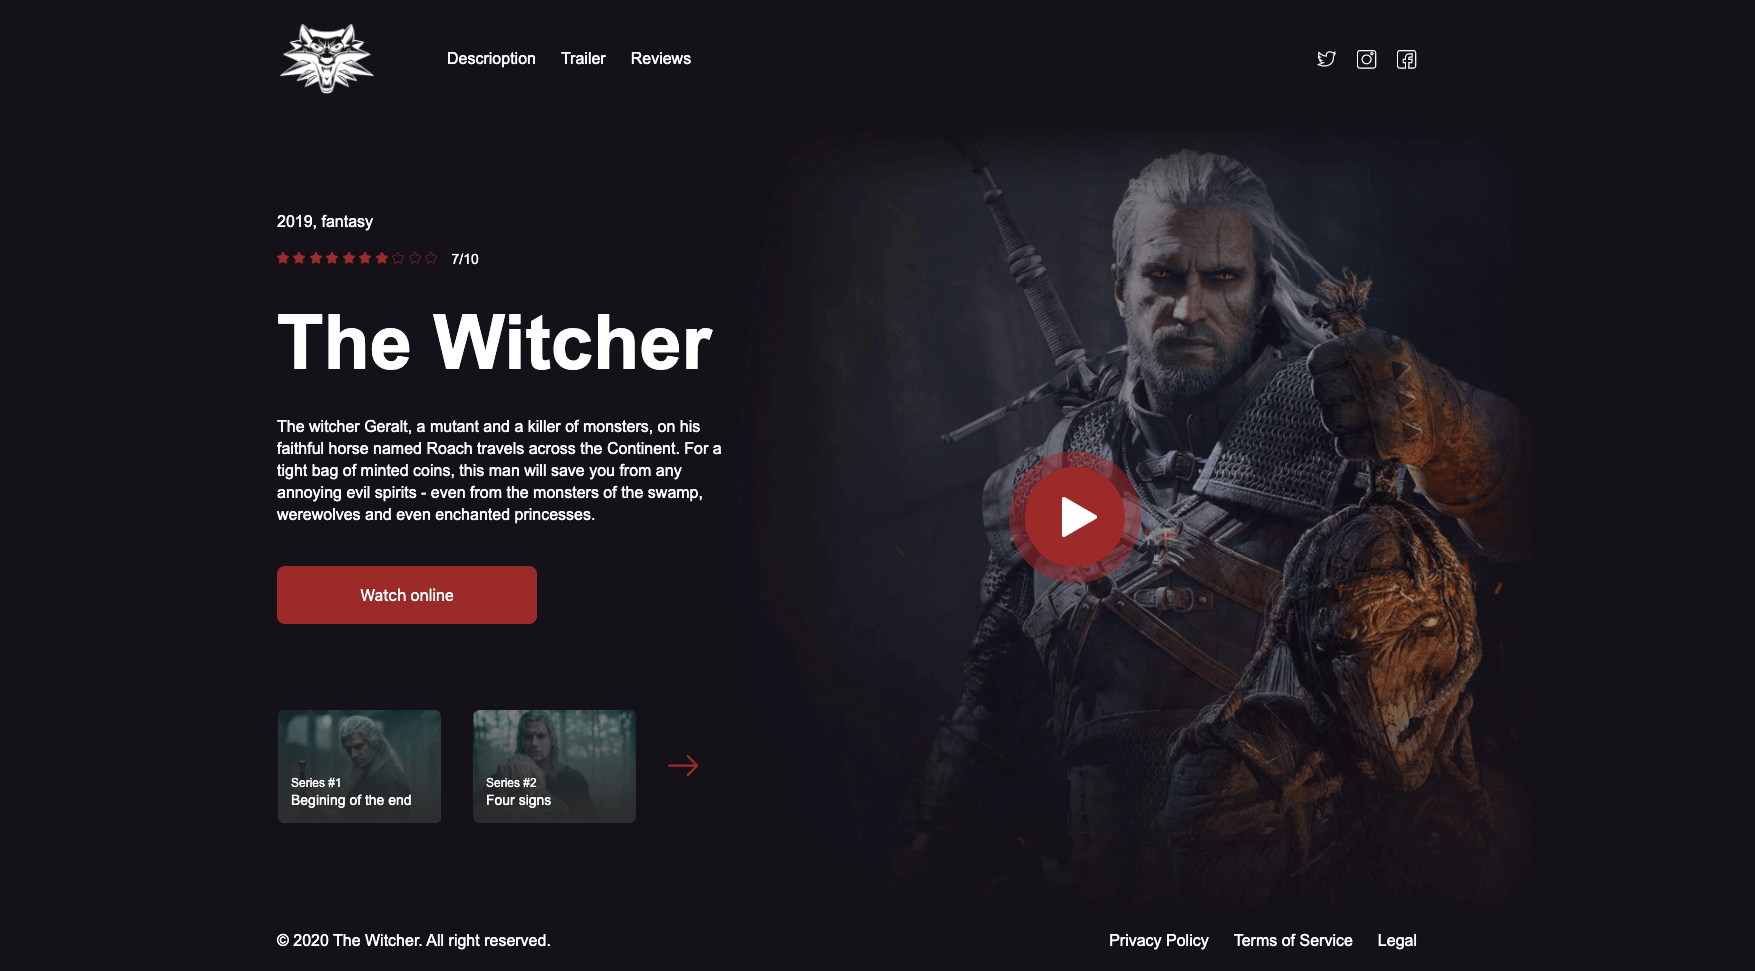
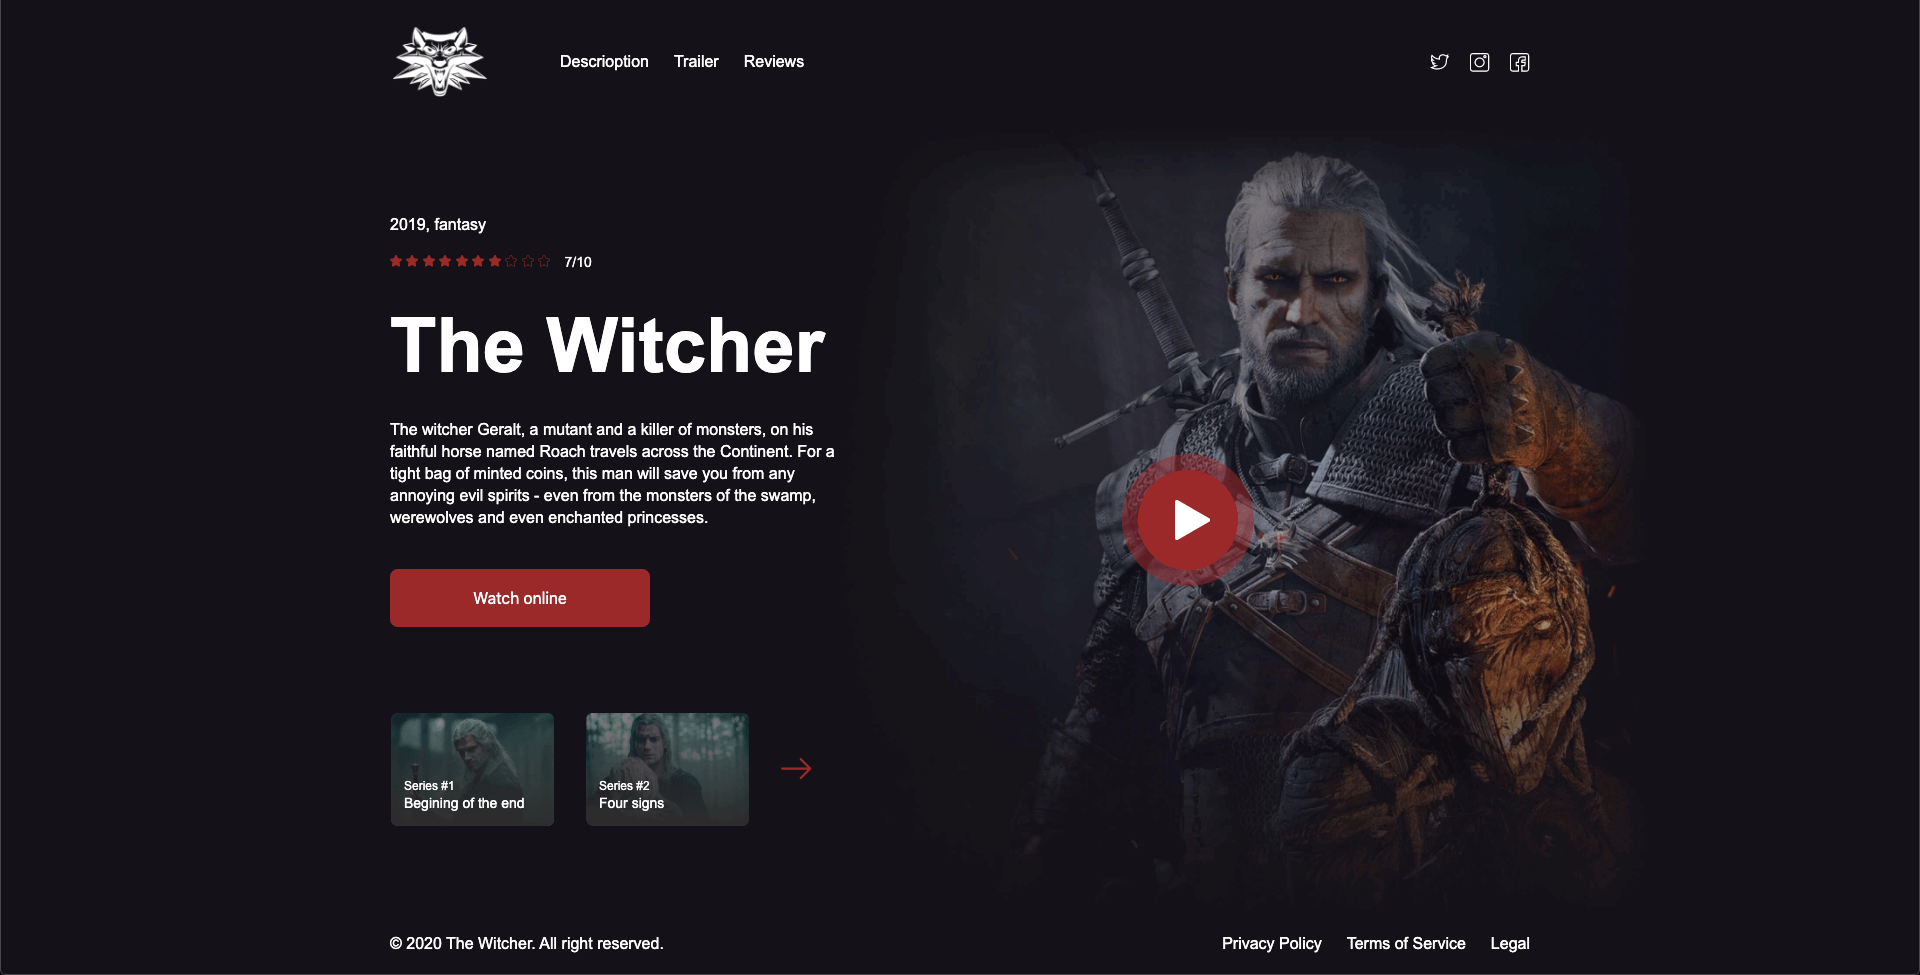
feat: add mobile responsive view
Update `readme.md`, add responsive

diff --git a/styles/style.scss b/styles/style.scss
@@ -1,9 +1,9 @@
+@import 'variables';
 .wrapper {
   display: flex;
   flex-direction: column;
   align-items: center;
-  min-height: 650px;
-  height: 100vh;
+  min-height: 100vh;
   width: 100%;
   background: #141218;
 }
@@ -15,7 +15,7 @@
   justify-content: center;
   width: 100%;
   max-width: 1440px;
-  padding: 60px 150px;
+  padding: 60px $side-padding-desktop;
   background: url("../images/main-bg.jpg") no-repeat top right / contain;
 }
 
@@ -24,7 +24,7 @@
   align-items: center;
   width: 100%;
   max-width: 1440px;
-  padding: 30px 150px;
+  padding: 30px $side-padding-desktop;
   &__logo {
     width: 100px;
     height: 70px;
@@ -46,7 +46,7 @@
   display: flex;
   align-items: center;
   justify-content: space-between;
-  padding: 20px 150px;
+  padding: 20px $side-padding-desktop;
   width: 100%;
   max-width: 1440px;
   &__text {
@@ -107,9 +107,6 @@
       margin-right: 0;
     }
   }
-  &__link {
-
-  }
 }
 
 .ratings {
@@ -161,7 +158,7 @@
 .btn-play {
   position: absolute;
   top: 50%;
-  right: 25%;
+  right: 20%;
   transform: translate(-50%, -50%);
   width: 132px;
   height: 132px;

diff --git a/index.html b/index.html
@@ -6,6 +6,7 @@
   <title>The Witcher</title>
   <link rel="stylesheet" href="styles/basic.css">
   <link rel="stylesheet" href="styles/style.css">
+  <link rel="stylesheet" href="styles/media.css">
 </head>
 <body>
   <main class="wrapper">
@@ -64,14 +65,14 @@
       <div class="thumbs">
         <ul class="thumbs__list">
           <li class="thumbs__item">
-            <img src="/images/thumb-03.jpg" alt="First series image preview">
+            <img src="./images/thumb-03.jpg" alt="First series image preview">
             <div class="thumbs__body">
               <div class="thumbs__title">Series #1</div>
               <div class="thumbs__desc">Begining of the end</div>
             </div>
           </li>
           <li class="thumbs__item">
-            <img src="/images/thumb-04.jpg" alt="Second series image preview">
+            <img src="./images/thumb-04.jpg" alt="Second series image preview">
             <div class="thumbs__body">
               <div class="thumbs__title">Series #2</div>
               <div class="thumbs__desc">Four signs</div>

diff --git a/styles/media.css b/styles/media.css
@@ -1,0 +1,44 @@
+@media screen and (max-width: 1024px) {
+  body {
+    font-size: 14px;
+  }
+  .container, .header, .footer {
+    padding-left: 40px;
+    padding-right: 40px;
+  }
+  .btn-play {
+    display: none;
+  }
+}
+
+@media screen and (max-width: 768px) {
+  .container, .header, .footer {
+    padding-left: 20px;
+    padding-right: 20px;
+  }
+}
+
+@media screen and (max-width: 650px) {
+  .header__logo, .header__nav, .header__social {
+    display: none;
+  }
+  .page-title {
+    font-size: 56px;
+  }
+  .page-btn {
+    margin-bottom: 40px;
+  }
+  .thumbs__item:not(:last-child) {
+    display: none;
+  }
+  .footer {
+    -webkit-box-orient: vertical;
+    -webkit-box-direction: normal;
+        -ms-flex-direction: column;
+            flex-direction: column;
+  }
+  .footer__text {
+    margin-bottom: 10px;
+  }
+}
+/*# sourceMappingURL=media.css.map */

diff --git a/styles/media.scss b/styles/media.scss
@@ -1,0 +1,44 @@
+@import 'variables';
+
+@media screen and (max-width: 1024px) {
+  body {
+    font-size: 14px;
+  }
+  .container, .header, .footer {
+    padding-left: $side-padding-tablet;
+    padding-right: $side-padding-tablet;
+  }
+  .btn-play {
+    display: none;
+  }
+}
+@media screen and (max-width: 768px) {
+  .container, .header, .footer {
+    padding-left: $side-padding-mobile;
+    padding-right: $side-padding-mobile;
+  }
+}
+@media screen and (max-width: 650px) {
+  .header {
+    &__logo, &__nav, &__social {
+      display: none;
+    }
+  }
+  .page-title {
+    font-size: 56px;
+  }
+  .page-btn {
+    margin-bottom: 40px;
+  }
+  .thumbs {
+    &__item:not(:last-child) {
+      display: none;
+    }
+  }
+  .footer {
+    flex-direction: column;
+    &__text {
+      margin-bottom: 10px;
+    }
+  }
+}

diff --git a/styles/style.css b/styles/style.css
@@ -9,8 +9,7 @@
   -webkit-box-align: center;
       -ms-flex-align: center;
           align-items: center;
-  min-height: 650px;
-  height: 100vh;
+  min-height: 100vh;
   width: 100%;
   background: #141218;
 }
@@ -225,7 +224,7 @@
 .btn-play {
   position: absolute;
   top: 50%;
-  right: 25%;
+  right: 20%;
   -webkit-transform: translate(-50%, -50%);
           transform: translate(-50%, -50%);
   width: 132px;

diff --git a/styles/_variables.scss b/styles/_variables.scss
@@ -1,0 +1,3 @@
+$side-padding-desktop: 150px;
+$side-padding-tablet: 40px;
+$side-padding-mobile: 20px;

diff --git a/README.md b/README.md
@@ -1,1 +1,1 @@
-# witcher-promo
+## [witcher-promo] (https://bemorehuman.github.io/witcher-promo/)
